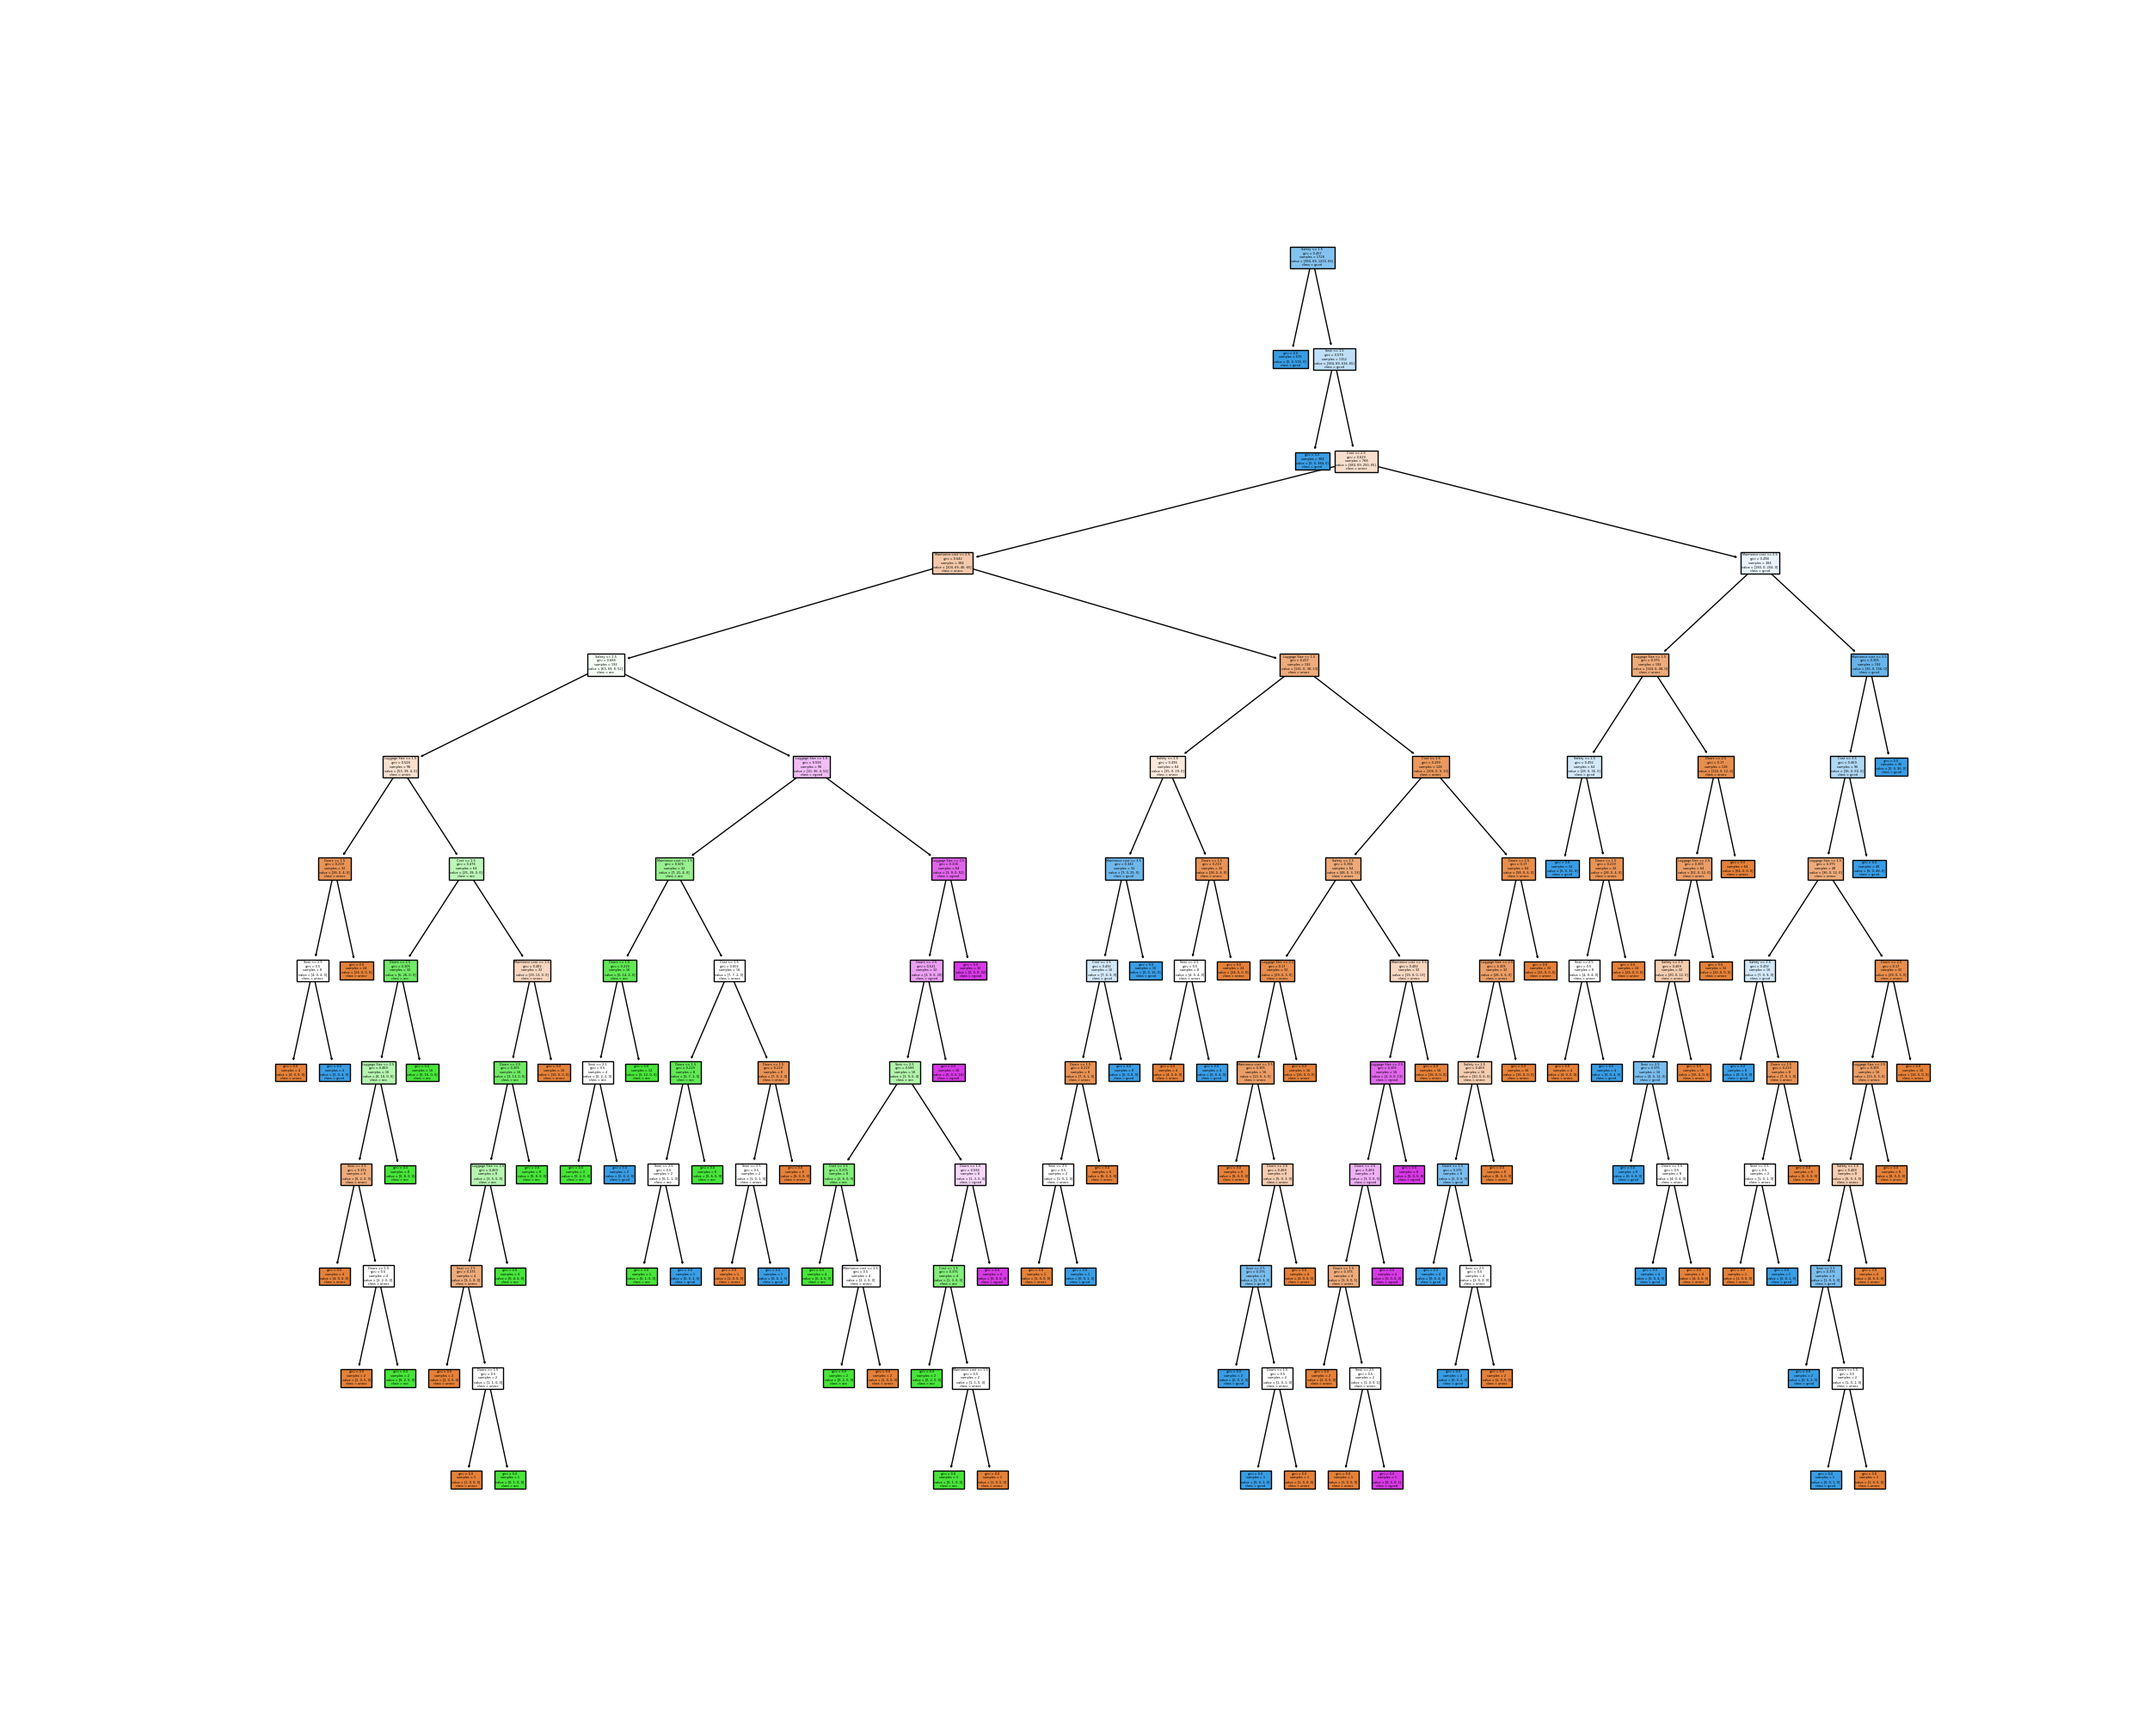
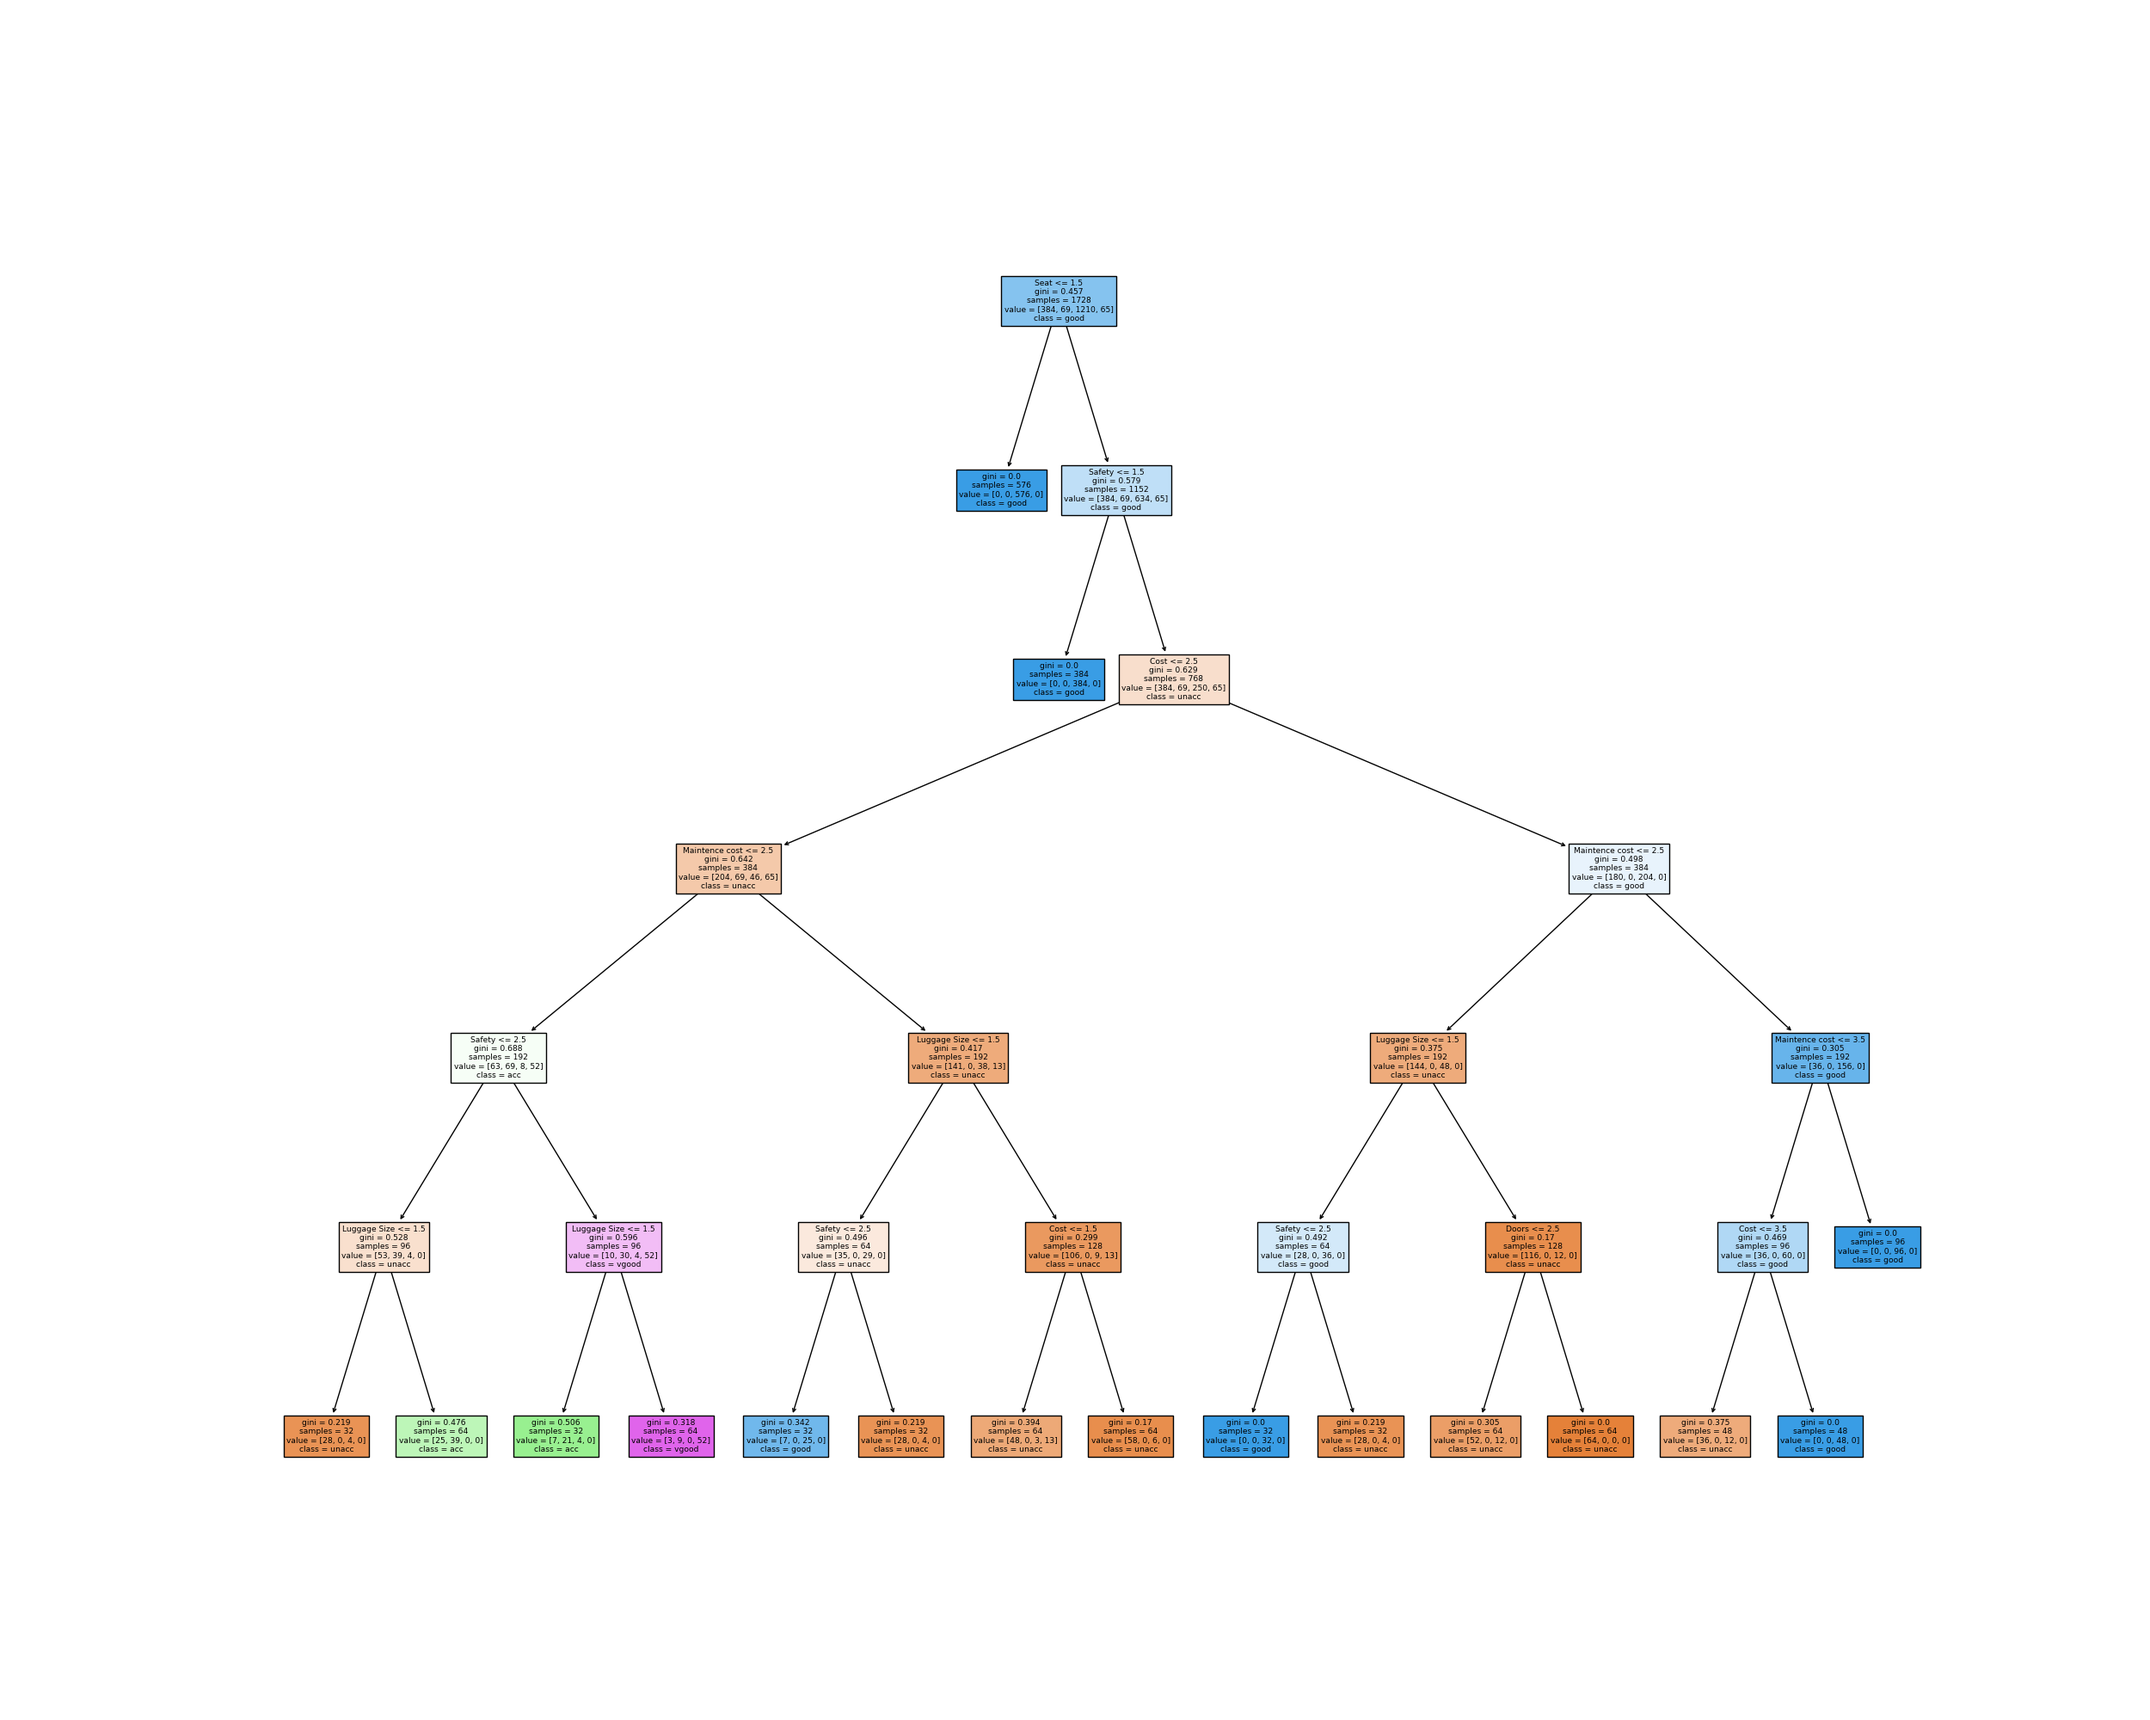
Changed classifications and created predictions

diff --git a/Predictions.py b/Predictions.py
@@ -1,0 +1,52 @@
+from ClassificationTree import *
+import sklearn
+class main:
+    fourRanks = ["vhigh","high","med","low"]
+    numofPerson = ["2","4","more"]
+    sizes = ["small","med","big"]
+    doors = ["2","3","4","5more"]
+    samples = []
+    do_calulation = True
+    print("Lets see if your car is acceptable \n Enter the following criteria\n")
+    while(do_calulation):
+        while True:
+            cost = input("What is the cost of the Car? 1. vhigh 2. high 3. med 4. low\n")
+            if cost in fourRanks:
+                break
+            else:
+                print("Try again. This is not an option. enter the word exactly as seen\n")
+        while True:
+            maint = input("What is the maintenence cost of the Car? 1. vhigh 2. high 3. med 4. low\n")
+            if maint in fourRanks:
+                break
+            else:
+                print("Try again. This is not an option. enter the word exactly as seen\n")
+        while True:
+            amtofdoors = input("How many doors are in the car? 2 , 3 , 4 , 5more\n")
+            if amtofdoors in doors:
+                break
+            else:
+                print("Try again. This is not an option. enter the word exactly as seen\n")
+        while True:
+            persons = input("How many seats are in the Car? 2 ,4 , more\n")
+            if persons in fourRanks:
+                break
+            else:
+                print("Try again. This is not an option. enter the word exactly as seen\n")
+        while True:
+            luggage = input("What is the luggage size of the Car? 1. small 2. med 3. big\n ")
+            if luggage in sizes:
+                break
+            else:
+                print("Try again. This is not an option. enter the word exactly as seen\n")
+        while True:
+            safety = input("What is the safety of the Car? 1. low 2. med 3. high\n ")
+            if safety in fourRanks:
+                break
+            else:
+                print("Try again. This is not an option. enter the word exactly as seen\n")
+        samples.append([int(replace4ranks(cost)),int(replace4ranks(maint)),int(replaceDoors(amtofdoors)),int(replacePersons(persons)),int(replaceSize(luggage)),int(replace4ranks(safety))])
+        another_calculation = input("Do you want to perform another calculation? (y/n): ")
+        if(another_calculation != "y"):
+            do_calculation = False
+            print(plt.predict(samples))

diff --git a/ClassificationTree.py b/ClassificationTree.py
@@ -9,12 +9,13 @@ class main:
     labels = GivenLabels("Car_Data.csv")
     labels = replaceLabels(labels)
     train = trainingData(numbs)
-    clf = tree.DecisionTreeClassifier()
+    clf = tree.DecisionTreeClassifier(max_depth=6)
     clf = clf.fit(train,labels)
     fig = plt.figure(figsize=(25,20))
     tree.plot_tree(clf,feature_names=["Cost","Maintence cost","Doors","Seat","Luggage Size","Safety"],class_names=["unacc","acc","good","vgood"],filled=True)
     fig.savefig("CarDecisionTree2.png")
     myTree = tree.export_text(clf)
+    print(clf.predict([[1,1,3,3,2,3],[1,1,3,2,2,3]]))
     print(myTree)
 #What should be our training vs testing samples. The data sheet is like sorted so how to do the training vs Testing samples
 #Creation of 2D array yada yada
